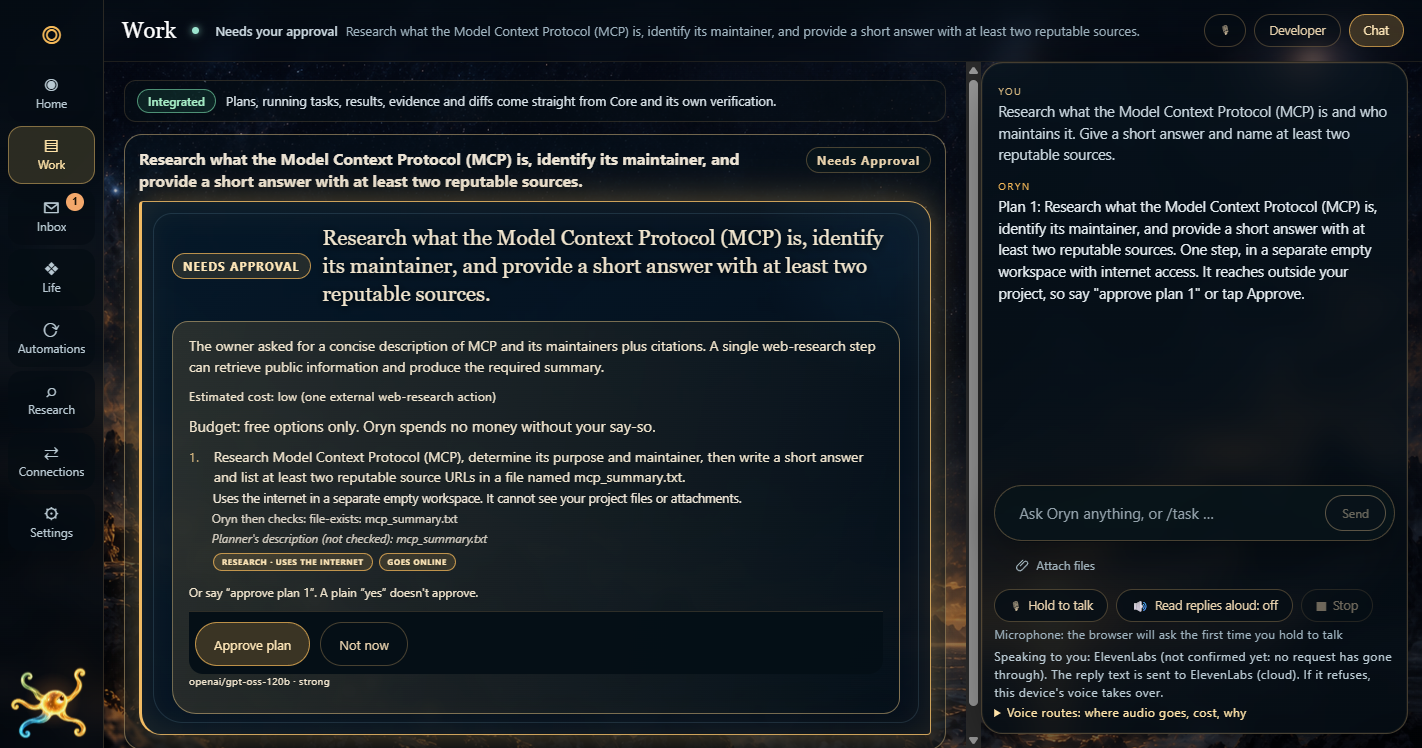
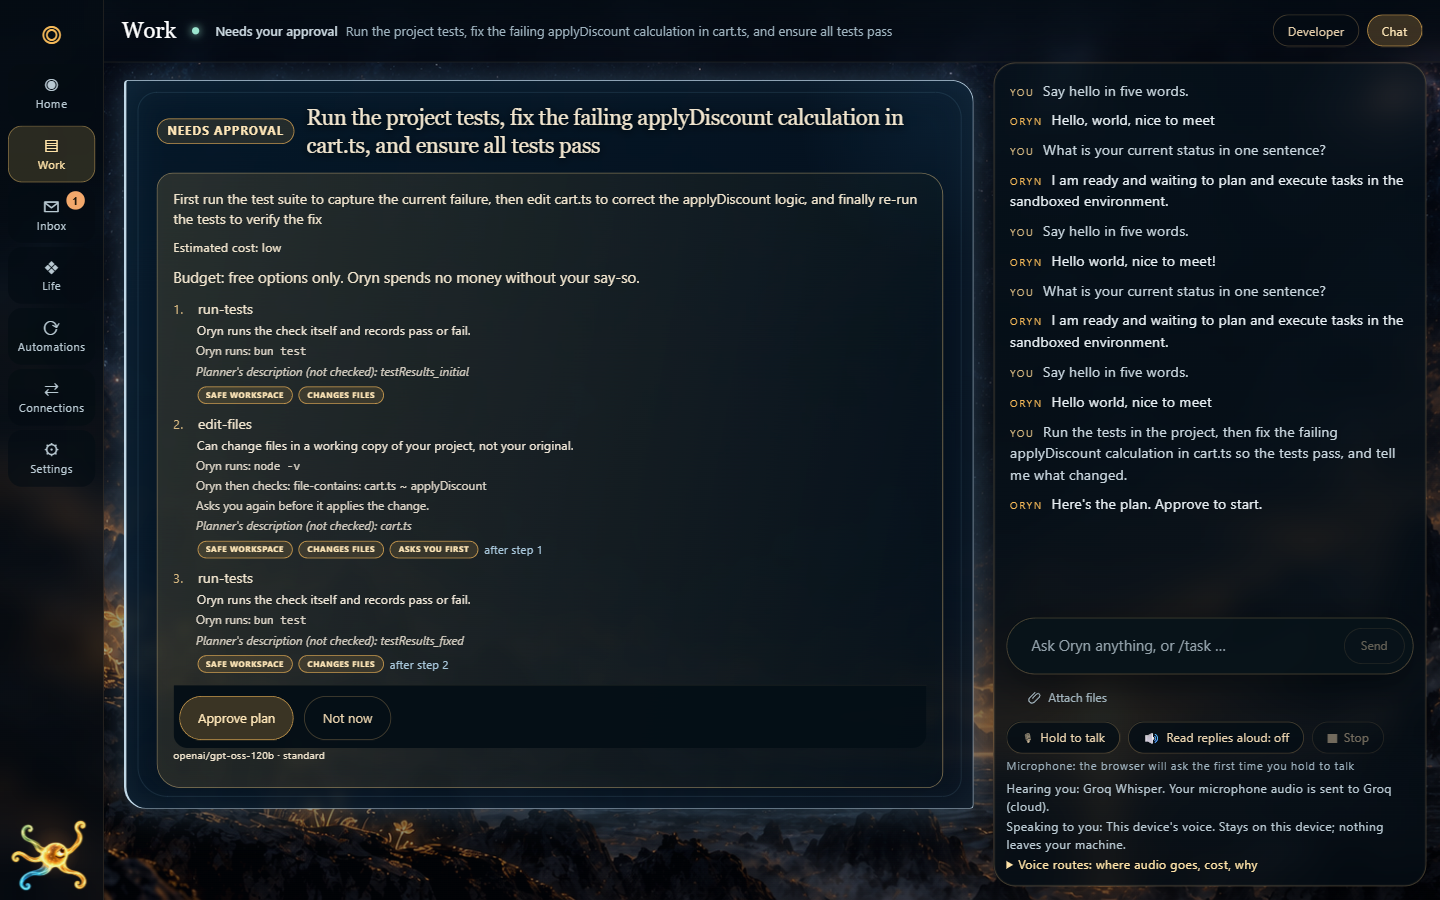
Capability-first showcase: new copy, hero result capture, labelled design concept
Claude-Session: https://claude.ai/code/session_01GfHeyamsMo42sCACn7hjXC

diff --git a/README.md b/README.md
@@ -1,72 +1,65 @@
-# Oryn — showcase
+# Oryn — clarity into action
 
-**Oryn is a local assistant prototype built around one idea: the thing that does the work must not be the thing that declares it done.** In the demonstrated workflow you ask a plain-language research question, approve a plan, a worker runs it in an isolated container, and Oryn's own Core checks the result and says plainly what it did and did not check.
+**Oryn is a visual AI workspace that turns a plain request into a clear plan, real work, and results you can open and inspect.** Conversation and task execution live in one place, with visible progress and replaceable workers behind the scenes.
 
-This repository is a recruiter-facing showcase (write-up and screenshots only). The product source is private and not published here.
+![Oryn home: the character, the latest result with its code diff, and recent verified activity](screenshots/01-home-latest-result.png)
 
-![Oryn home screen: the character, example requests, and an honest refusal for a capability it does not have](screenshots/01-home-honest-refusal.png)
+## What Oryn helps you do
+- **Say what you want in plain words**, by typing or speaking.
+- **See the plan before anything happens.** Every step is written out: what it will do, whether it touches files or the internet, what it costs, and how the result will be checked.
+- **Get real work done.** Research a question and get a short answer with named sources. Run a project's tests, fix what fails, and run them again.
+- **Open the result.** See the code diff, the files produced, a receipt for each step, and an audit trail of what ran and where.
 
-## Architecture
+## One request, start to finish
+> *"Run the tests in the project, fix the failing applyDiscount calculation, and tell me what changed."*
+
+**1. Plan.** Oryn writes a three-step plan: run the tests, edit the file, run the tests again. Each step is labelled (safe workspace, changes files, asks you first), and the cost is shown.
+
+![A three-step plan with step labels and an Approve plan button](screenshots/02-plan-awaiting-approval.png)
+
+**2. Work.** After you approve, a worker carries out the steps in a safe copy of your project, not your original.
+
+**3. Result.** Oryn runs the checks itself and shows the outcome: tests passed, the diff of what changed, and a receipt. The home screen above is that result, with recent activity listed underneath.
+
+Research works the same way: ask a plain question, approve the plan, and get a short answer with its sources and a findings file.
+
+## How it is built
 ```
 Plain-language request (text or voice)
         │
         ▼
   Core  (Bun + TypeScript, WebSocket, AG-UI events)
   ├─ planner      → turns a request into a plan card
-  ├─ policy       → classifies each step; free-only model routes by default
+  ├─ policy       → classifies each step; free model routes by default
   ├─ approval     → plan-approved steps; a plain "yes" does not approve
-  ├─ adapters     → replaceable workers: Hermes-in-Docker, web-research, Codex
-  └─ verification → probes + receipt, written by Core, never by the worker
+  ├─ adapters     → replaceable workers: Hermes-in-Docker, web research, Codex
+  └─ verification → checks and receipts written by Core
         │
         ▼
-  App server (React 19)  →  Electron 44 shell (Core and app run as packaged sidecars)
+  App server (React 19)  →  Electron shell (Core and app run as packaged sidecars)
 ```
+Engineering decisions behind it:
+- **Replaceable workers.** Workers sit behind one contract, so Oryn is not tied to a single model vendor.
+- **Independent checking.** Core runs the checks and writes the receipt, so "tests passed" is something Oryn confirmed itself.
+- **Safe by default.** Work runs in an isolated workspace, web fetches use an SSRF-guarded client, and spending is off unless you allow it.
+- **An honest status model.** Each feature is graded Integrated, Working with limits, Configured, Researched, or Unavailable.
 
-Engineering decisions worth noting:
-- **Core is the authority, workers are replaceable.** Approval and verification live in Core; workers are adapters, so the product does not depend on one model vendor.
-- **Honest verification wording.** Core's reply states the checks it ran (file exists, sources cited, cited pages reachable) and the one it did not (the claims themselves).
-- **Safety defaults.** Research steps run in a separate empty workspace; fetches go through a DNS-pinned, SSRF-guarded client; the Watch feature is paused by default; routes are free-only unless the owner allows spend.
-- **Failures are shown as failures.** The honest-refusal and "not checked" messages are deliberate design, not copy polish.
+Stack: Bun, TypeScript, React 19, Electron, Zod, fast-check, Docker, AG-UI, Vercel AI SDK, free models via OpenRouter and Gemini; worker image from Nous Research's Hermes.
 
-Stack: Bun, TypeScript, React 19, Electron, Zod, fast-check, Docker, AG-UI (`@ag-ui/core`), the Vercel AI SDK, and free models through OpenRouter and Gemini. The worker image comes from Nous Research's Hermes.
+## Direction
+Oryn is heading toward a more personal, proactive assistant: one that understands your ongoing goals, uses the tools and accounts you choose to connect, brings the right decision to you at the right moment, and coordinates several helpers across longer projects.
 
-## Demonstrated outcomes
-One workflow was run end to end in a real browser: **a plan-approved research request.** Captures are in `screenshots/`.
+![Design concept: an agents workspace with planner, research and implementation stages and a verification receipt](concepts/design-concept-agents-workspace.png)
+*Design concept (AI-generated). This is a direction, not a screenshot of the running app.*
 
-| Step | What you see | Screenshot |
-|---|---|---|
-| **Plan** | A plain research question becomes a one-step plan with cost ("free options only"), what the step can see, and the exact check Core will run afterwards. A plain "yes" does not approve; you tap *Approve plan* or say "approve plan 1". | [02](screenshots/02-plan-awaiting-approval.png) |
-| **Isolated run** | After approval, the step runs in an empty Docker workspace with internet access for research, and can be cancelled. | [03](screenshots/03-worker-running.png) |
-| **Verified outcome** | Core reports what it checked and states: "Core did not check the claims themselves." | [04](screenshots/04-verified-outcome.png) |
-| **Receipt** | Developer Mode shows the plan, task, `findings.md` artifact, cost line and an *Evidence & audit* view. | [05](screenshots/05-developer-mode-receipt.png) |
+On the roadmap: a personalized daily home, proactive suggestions, scheduled and recurring work, connected email, calendar and other accounts (with your approval), and multi-helper project views.
 
-Separately demonstrated: asked to post to LinkedIn, Oryn says it has no such capability and offers a draft instead of inventing a connector ([01](screenshots/01-home-honest-refusal.png)).
+## Development status
+Oryn is a working prototype on Windows that runs locally.
+- **Demonstrated:** plain-language research with sources (live check passed 19/19, run twice) and an approved coding task with a verified diff, plus a packaged-app smoke test (12/12). These are self-run checks.
+- **Next:** a clean-machine install test, voice polish, more connected tools, and fact-checking of research answers (today Core confirms the research ran and returned sources).
+- Source is private and there is no hosted demo yet.
 
-Results from the build's own test runs (2026-10-07; agent-run, self-reported, not an external audit): the research workflow passed its live check 19/19 twice against the real Core, a real planner and a Docker worker on free model routes; character and panel motion checks passed in full, reduced and off motion (15/15, 16/16, 17/17) in real Chrome; a packaged-app smoke test passed 12/12.
-
-![Plan awaiting approval](screenshots/02-plan-awaiting-approval.png)
-
-![Verified outcome with the limits of the check stated](screenshots/04-verified-outcome.png)
-
-## My role, and what agents did
-- **Me:** product requirements and direction, the decisions that shape the design (Core as sole authority for approval and verification, free-only routing, owner-gated actions), reviewing outcomes, and accepting or rejecting delegated work.
-- **AI agents:** implementation, tests and real-browser automation. Claude Code did most of the implementation and test tooling; Cursor built several UI slices and audits; Copilot wrote tests; Codex/Forge ran independent audits.
-
-I am presenting this as directing and reviewing agent-built software, not as hand-written code.
-
-## Current limitations
-- **Core verifies that research ran and returned sources, not that the claims are true.**
-- Only the plan-approved research workflow is shown here. Other workflows exist in the prototype but are not demonstrated in this showcase.
-- Not yet through my own full acceptance: no clean-machine install and no real-microphone test.
-- The Windows installer is unsigned and is not distributed here.
-- Agent-orchestration UIs are a crowded space; this is a prototype exploring approval-and-verification.
-- Voice is off by default; when turned on it sends audio to a third-party speech service.
-
-## Status
-Working prototype, running locally; source private and unpublished. No hosted demo: Oryn's backend runs on my machine and is deliberately not exposed to the internet.
-
-## Art and screenshots
-The character and background shown are part of the product's own visuals. Screenshots are provided only for portfolio viewing; no licence to reuse them is granted (see [NOTICE.md](NOTICE.md)). Only the approved character poses appear; candidate poses are not shown.
-
-## Contact
 Dilip Chikatla · [LinkedIn](https://www.linkedin.com/in/dilipchikatla/) · [GitHub](https://github.com/dilip-ch-dev)
+
+*Screenshots and art are for viewing only; all rights reserved (see [NOTICE.md](NOTICE.md)).*
